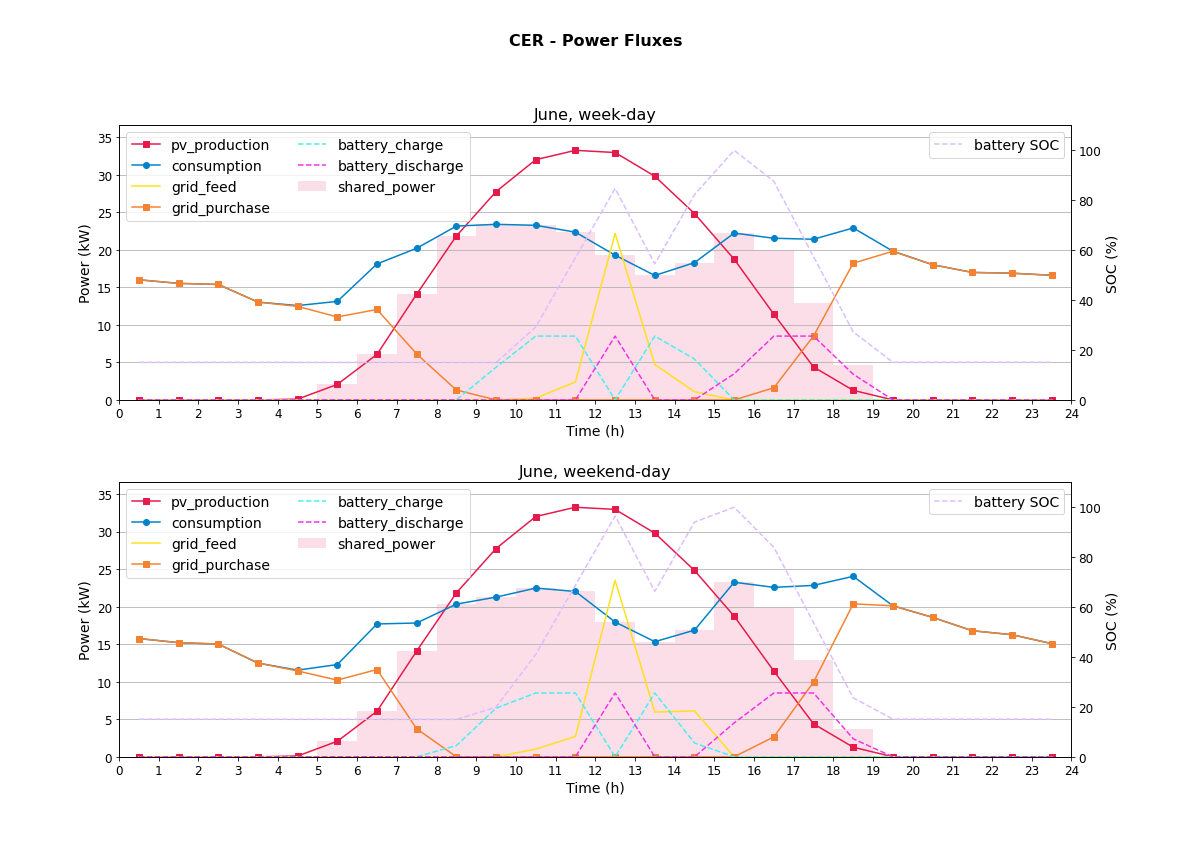
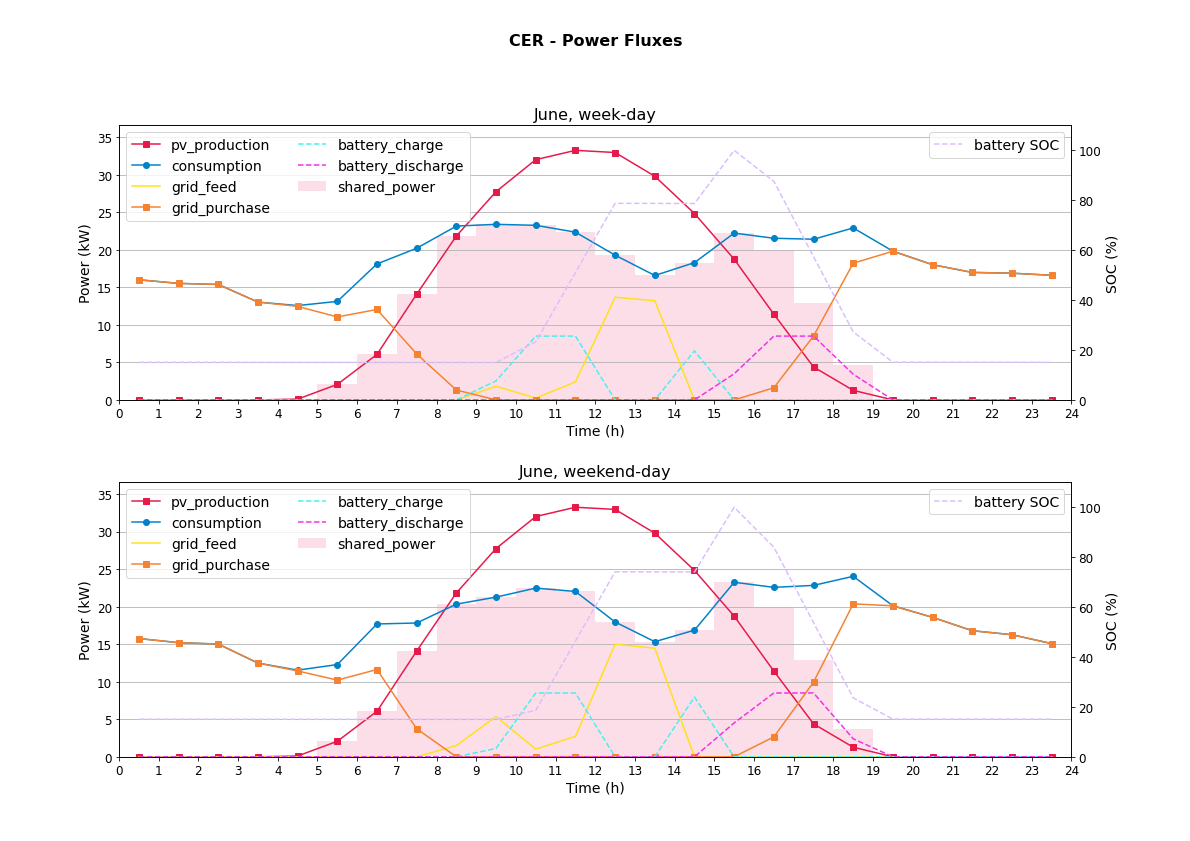
battery opt - theory refs

diff --git a/battery_optimisation.py b/battery_optimisation.py
@@ -46,21 +46,21 @@ def battery_optimisation(pv_production, consumption, time_dict, technologies_dic
     # time_sim = time_dict['time_sim']
 
     # Number of elements of the vector of time
-    time_length = time_dict['time_length']
+    time_length = time_dict['time_length'] #N_int = 24
 
 
     ## Sizes and battery specficiations of the various technologies
 
     # PV size (kW)
-    pv_size = technologies_dict['pv_size']
+    pv_size = technologies_dict['pv_size'] 
 
     # Grid maximum power (kW)
-    grid_feed_max = technologies_dict['pv_size']
-    grid_purchase_max = technologies_dict['grid_power_max']
+    grid_feed_max = technologies_dict['pv_size'] #P_s,max  
+    grid_purchase_max = technologies_dict['grid_power_max'] #P_p,max
 
     # Battery size/capacity (kWh)
-    battery_size = technologies_dict['battery_size']
-    battery_capacity = battery_size
+    battery_size = technologies_dict['battery_size'] 
+    battery_capacity = battery_size #CAP_nom
 
     # Battery specifications 
     battery_specs = technologies_dict['battery_specs']
@@ -73,20 +73,20 @@ def battery_optimisation(pv_production, consumption, time_dict, technologies_dic
     SOCmin = battery_specs['SOC_min']
 
     # Minimum time of charge/discharge (on which the maximum discharge power depends) (h)
-    t_cd_min = battery_specs['t_cd_min']
+    t_cd_min = battery_specs['t_cd_min'] #Dt_c,min = Dt_d,min
 
     # Charge, discharge and self-discharge efficiencies (-)
-    eta_charge = battery_specs['eta_charge']
-    eta_discharge = battery_specs['eta_discharge']
-    eta_self_discharge = battery_specs['eta_self_discharge']
+    eta_charge = battery_specs['eta_charge'] #n_bc
+    eta_discharge = battery_specs['eta_discharge'] #n_bd
+    eta_self_discharge = battery_specs['eta_self_discharge'] #n_sd
 
     # Maximum and minimum energy in the battery (kWh)
-    battery_energy_max = SOCmax*battery_capacity 
+    battery_energy_max = SOCmax*battery_capacity #CAP_ut
     battery_energy_min = SOCmin*battery_capacity 
 
     # Maximum power of discharge and charge (kW)
-    battery_discharge_max = battery_capacity*(SOCmax-SOCmin)/t_cd_min 
-    battery_charge_max = battery_discharge_max
+    battery_discharge_max = battery_capacity*(SOCmax-SOCmin)/t_cd_min  #P_bd,max
+    battery_charge_max = battery_discharge_max #P_bc,max
 
     # # Evaluating the excess energy, if the production tries to fulfill the whole demand (needed to bound the grid_feed power)
     # pv_available = pv_production - consumption
@@ -100,7 +100,7 @@ def battery_optimisation(pv_production, consumption, time_dict, technologies_dic
     #           and all energy taken from the grid, consumption + battery)
     opt_objectives = ['MAXSHE', 'MINGRI']
 
-    opt_objective_num = 1 #porcata
+    opt_objective_num = 1 #porcata default:1
     opt_objective = opt_objectives[opt_objective_num]
 
 
@@ -114,10 +114,10 @@ def battery_optimisation(pv_production, consumption, time_dict, technologies_dic
     
 
     ## Definition of the variables
-
+    #_state variables denote boolean indicators
     # Initalizing the variables
     grid_feed = time_length * [0]  
-    grid_feed_state = time_length * [0]   
+    grid_feed_state = time_length * [0] 
     grid_purchase = time_length * [0]  
     grid_purchase_state = time_length * [0]  
     battery_charge = time_length * [0]  
@@ -132,14 +132,13 @@ def battery_optimisation(pv_production, consumption, time_dict, technologies_dic
     # y is used to assess whether x1 is larger than x2 or the other way around
     y = time_length * [0]
 
-    # M is a big-parameter that is used in the linearization of the function min(x1, x2)
+    # M is a big-parameter that is used in the linearization of the function min(x1, x2) (shared power computation)
     # In this case, x1 and x2 are, respectively, the hourly sum between the pv production and the battery discharge,
     # and the hourly sum between the consumption and the battery charge. M is a _powerig number that must be larger than both x1 and x2
     # The battery_charge/discharge are not known in advance but their maximum value is, therefore M is evaluated as follows
     # M = 100*max(np.max(pv_production) + battery_discharge_pmax, \
     #             np.max(consumption) + battery_charge_pmax)
-    M = 100*max(pv_size + battery_discharge_max, \
-                grid_purchase_max)
+    M = 100*max(pv_size + battery_discharge_max, grid_purchase_max)
 
     # Assigning the variables 
     for i in range(time_length):
@@ -168,11 +167,11 @@ def battery_optimisation(pv_production, consumption, time_dict, technologies_dic
  
     for i in range(time_length):  
 
-        # Equilibrium at the electric node (in-coming power = exiting power)
+        # Equilibrium at the electric node (in-coming power = exiting power) - (4.10)
         opt_problem += (consumption[i] + grid_feed[i] + battery_charge[i] \
                          - pv_production[i] - grid_purchase[i] - battery_discharge[i])*dt == 0  #- power_available[i]
         
-        # Energy conservation for the battery (and initial SOC = final SOC)
+        # Energy conservation for the battery (and initial SOC = final SOC)  - (4.12) + (4.13)
         if (i < time_length - 1):
             opt_problem += (- battery_energy[i + 1] + eta_self_discharge*battery_energy[i]
                             + (battery_charge[i]*eta_charge \
@@ -183,37 +182,37 @@ def battery_optimisation(pv_production, consumption, time_dict, technologies_dic
                             - battery_discharge[i]*(1/ eta_discharge))*dt) == 0
 
         # Constraint on maximum grid power (both for feed and purchase)
-        opt_problem += (grid_feed[i] <= grid_feed_state[i] * grid_feed_max) 
-        opt_problem += (grid_purchase[i] <= grid_purchase_state[i] * grid_purchase_max)
+        opt_problem += (grid_feed[i] <= grid_feed_state[i] * grid_feed_max) # (4.20 a)
+        opt_problem += (grid_purchase[i] <= grid_purchase_state[i] * grid_purchase_max) # (4.20 b)
 
         # Constraint on feeding/purchasing: they cannot be both active at the same time
-        opt_problem += (grid_feed_state[i] + grid_purchase_state[i] >= 0)
-        opt_problem += (grid_feed_state[i] + grid_purchase_state[i] <= 1)
+        opt_problem += (grid_feed_state[i] + grid_purchase_state[i] >= 0) #(4.20 c)
+        opt_problem += (grid_feed_state[i] + grid_purchase_state[i] <= 1) #(4.20 d)
 
         # Constraint on maximum charge and discharge power
-        opt_problem += (battery_charge[i] <= battery_charge_state[i] * battery_charge_max)
-        opt_problem += (battery_discharge[i] <= battery_discharge_state[i] * battery_discharge_max)
+        opt_problem += (battery_charge[i] <= battery_charge_state[i] * battery_charge_max)  #(4.18 a)
+        opt_problem += (battery_discharge[i] <= battery_discharge_state[i] * battery_discharge_max) #(4.18 b)
 
         # Constraint on charging/discharging: they cannot be both active at the same time
-        opt_problem += (battery_charge_state[i] + battery_discharge_state[i] >= 0)
-        opt_problem += (battery_charge_state[i] + battery_discharge_state[i] <= 1)
+        opt_problem += (battery_charge_state[i] + battery_discharge_state[i] >= 0) #(4.18 c)
+        opt_problem += (battery_charge_state[i] + battery_discharge_state[i] <= 1) #(4.18 d)
 
-        # Constraint on maximum and minimum SOC
-        opt_problem += (battery_energy[i] <= battery_energy_max)
+        # Constraint on maximum and minimum SOC -- (4.11)
+        opt_problem += (battery_energy[i] <= battery_energy_max) 
         opt_problem += (battery_energy[i] >= battery_energy_min)
 
-        # Constraint on grid feed: the battery cannot be discharged to sell to the grid
+        # Constraint on grid feed: the battery cannot be discharged to sell to the grid -- (4.16) -- Wrong
         opt_problem += (grid_feed[i] <= pv_production[i]) 
 
-        # Constraint on grid purchase: the battery cannot be charged from the grid
+        # Constraint on grid purchase: the battery cannot be charged from the grid -- (4.17) -- Wrong
         opt_problem += (battery_charge[i] <= pv_production[i]) 
 
         # Linearization of shared_power[i] = min(pv_production[i] + battery_discharge[i] - battery_charge[i], consumption[i])
 
         # Constraint on the shared energy, that must be smaller than both pv_production + battery_discharge - battery_charge
         # and consumption (1/2)
-        opt_problem += (shared_power[i] <= (pv_production[i] + battery_discharge[i] - battery_charge[i]))
-        opt_problem += (shared_power[i] <= (consumption[i]))
+        opt_problem += (shared_power[i] <= (pv_production[i] + battery_discharge[i] - battery_charge[i])) #strange
+        opt_problem += (shared_power[i] <= (consumption[i])) #strange
 
         # Definition of y that is 1 when pv_production + battery_discharge <= consumption[i] + battery_charge[i], 0 otherwise
         # The definition of y is introduced as a constraint
@@ -231,7 +230,7 @@ def battery_optimisation(pv_production, consumption, time_dict, technologies_dic
 
     # Objective of minimizing the interactions with the grid
     if opt_objective == 'MINGRI': opt_problem += lpSum([grid_feed[i] + grid_purchase[i]   for i in range(time_length)])
-
+	#if opt_objective == 'MINGRI': opt_problem += lpSum([grid_feed[i] for i in range(time_length)]) # (4.14)
     # Objective of maximizing the shared energy
     elif opt_objective == 'MAXSHE': opt_problem += lpSum([shared_power[i] for i in range(time_length)])
     
@@ -248,31 +247,29 @@ def battery_optimisation(pv_production, consumption, time_dict, technologies_dic
     # In order to avoid stopping the procedure due to such errors, a try-except is used
     # If the xception raises, nans are returned
 
-    '''
     try:
-        solver_path = r'D:\\Users\\F.Moraglio\\Downloads\\Cbc-master-win64-msvc16-mt\\bin\\cbc.exe'
-        solver = PULP_CBC_CMD(path = solver_path, msg=1)
+        #solver = GLPK_CMD(msg = 0) #default - this works
+        ## Use Custom SOLVER to speed up computations
+        #the basepath of the file is stored in a variable 
+        basepath = Path(__file__).parent
+        solver_path = basepath / "Input" / "Files" / "Solvers" / "cbc.exe"  #Path to CBC solver   
+        solver_path = solver_path.as_posix() #Windows path requires being casted to posix
+        solver = COIN_CMD(path = solver_path, msg=1)
         #solver = GLPK_CMD(msg = 0) #this works
-        opt_problem.solve(solver) #PULP_CBC_CMD(msg=True)
+        opt_problem.solve(solver) #PULP_CBC_CMD(msg=True)   
         
     except:
+
         optimisation_status = 'Opt. did not work'
         grid_feed = np.zeros((time_length,)); grid_feed[:] = np.nan
         grid_purchase = np.zeros((time_length,)); grid_purchase[:] = np.nan
         battery_charge = np.zeros((time_length,)); battery_charge[:] = np.nan
         battery_discharge = np.zeros((time_length,)); battery_discharge[:] = np.nan
         battery_energy = np.zeros((time_length,)); battery_energy[:] = np.nan
+        shared_power = np.zeros((time_length,))
+        return optimisation_status, shared_power, grid_feed, grid_purchase, battery_charge, battery_discharge, battery_energy      
 
-        return optimisation_status, grid_feed, grid_purchase, battery_charge, battery_discharge, battery_energy      
-    '''
-    ## Use Custom SOLVER to speed up computations
-    #the basepath of the file is stored in a variable 
-    basepath = Path(__file__).parent
-    solver_path = basepath / "Input" / "Files" / "Solvers" / "cbc.exe"  #Path to CBC solver   
-    solver_path = solver_path.as_posix() #Windows path requires being casted to posix
-    solver = COIN_CMD(path = solver_path, msg=1)
-    #solver = GLPK_CMD(msg = 0) #this works
-    opt_problem.solve(solver) #PULP_CBC_CMD(msg=True)   
+
     # If instead everything goes smooth, the optimisation status is printed and the optimised values are returned
 
     # Optimisation status

diff --git a/shared_energy_evaluator.py b/shared_energy_evaluator.py
@@ -4,10 +4,6 @@ Created on Wed Jan 27 08:51:11 2020
 
 @author: giamm
 """
-
-
-
-
 import numpy as np
 from tabulate import tabulate
 from battery_optimisation import battery_optimisation
@@ -89,7 +85,7 @@ def shared_energy_evaluator(time_dict, input_powers_dict, technologies_dict, aux
     # Monthly values for the energy are stored 
 
     # Energy production from the PV (kWh/month)
-    pv_production_energy = np.zeros((n_months))
+    pv_production_energy = np.zeros((n_months)) #numpy.zeros
 
     # Energy consumption from the aggregate of households (kWh/month)
     consumption_energy = np.zeros((n_months))
@@ -132,12 +128,8 @@ def shared_energy_evaluator(time_dict, input_powers_dict, technologies_dict, aux
 
     ## Performing the calculation for each month, for each day-type (i.e. for n_months*n_days = 24 typical days)
 
-    # Since the keys in days (dict) are strings, this for loop is used to store their names (they are needed in the following)
-    for day in days:
-        iday = days[day][0]
-        if iday == 0: weekday = day
-        elif iday == 1: weekend = day
-
+    # Since the keys in days (dict) are strings, vastore their names (they are needed in the following)
+    weekday, weekend = list(days)    
     # Running through the months
     for month in months:
 
@@ -194,11 +186,8 @@ def shared_energy_evaluator(time_dict, input_powers_dict, technologies_dict, aux
             # Using the method battery_optimisation from the module battery_optimisation.py to run the MILP
             # optimisation in order to determine the battery usage strategy in the typical day. Powers and 
             # energy stored in the battery at each time-step are returned.
-            try:
-                optimisation_status[month][day], shared_power, grid_feed, grid_purchase, battery_charge, battery_discharge, battery_energy = \
-                battery_optimisation(pv_production, consumption, time_dict, technologies_dict)
-            except:
-                raise RuntimeError("Hey motherfucker! Optimisation failed")
+            optimisation_status[month][day], shared_power, grid_feed, grid_purchase, battery_charge, battery_discharge, battery_energy = \
+            battery_optimisation(pv_production, consumption, time_dict, technologies_dict)
 
             # # Uncomment to check that the constraints and equations defined in the problem are actually respected
             # tol = 1e-4
@@ -208,7 +197,7 @@ def shared_energy_evaluator(time_dict, input_powers_dict, technologies_dict, aux
             # if (np.any(battery_charge > pv_available + tol)): print('ops, battery_charge'); print(battery_charge - pv_available)
         
             # Evaluating the instanteneous shared energy, according to the definition in the Decree Law 162/2019
-            # shared_power = np.minimum((pv_production + battery_discharge), (consumption + battery_charge))
+            #shared_power = np.minimum((pv_production + battery_discharge), (consumption + battery_charge))
 
             # Storing the energies for this typical day in the monthly energies, this is done by summing the power during each time-step
             # (and multipling by the time-step in order to get the energy) and multiplying by the total number of days of this type

diff --git a/main.py b/main.py
@@ -1,13 +1,15 @@
 import numpy as np
 import matplotlib.pyplot as plt
 import csv
-# from pulp import *
+from pathlib import Path
 import sys 
-sys.path.append("D:/Users/F.Moraglio/Documents/CER/RECOpt")
+# The basepath of the file is stored in a variable 
+basepath = Path(__file__).parent
+sys.path.append(basepath.as_posix())
 
 from scipy.interpolate import interp1d
 from tabulate import tabulate
-from pathlib import Path
+
 
 import parameters_input as inp
 
@@ -52,11 +54,6 @@ for color in colors:
 
 
 ###############################################################################
-
-# The basepath of the file is stored in a variable 
-basepath = Path(__file__).parent
-
-
 
 ### Parameters and simulation setup
 
